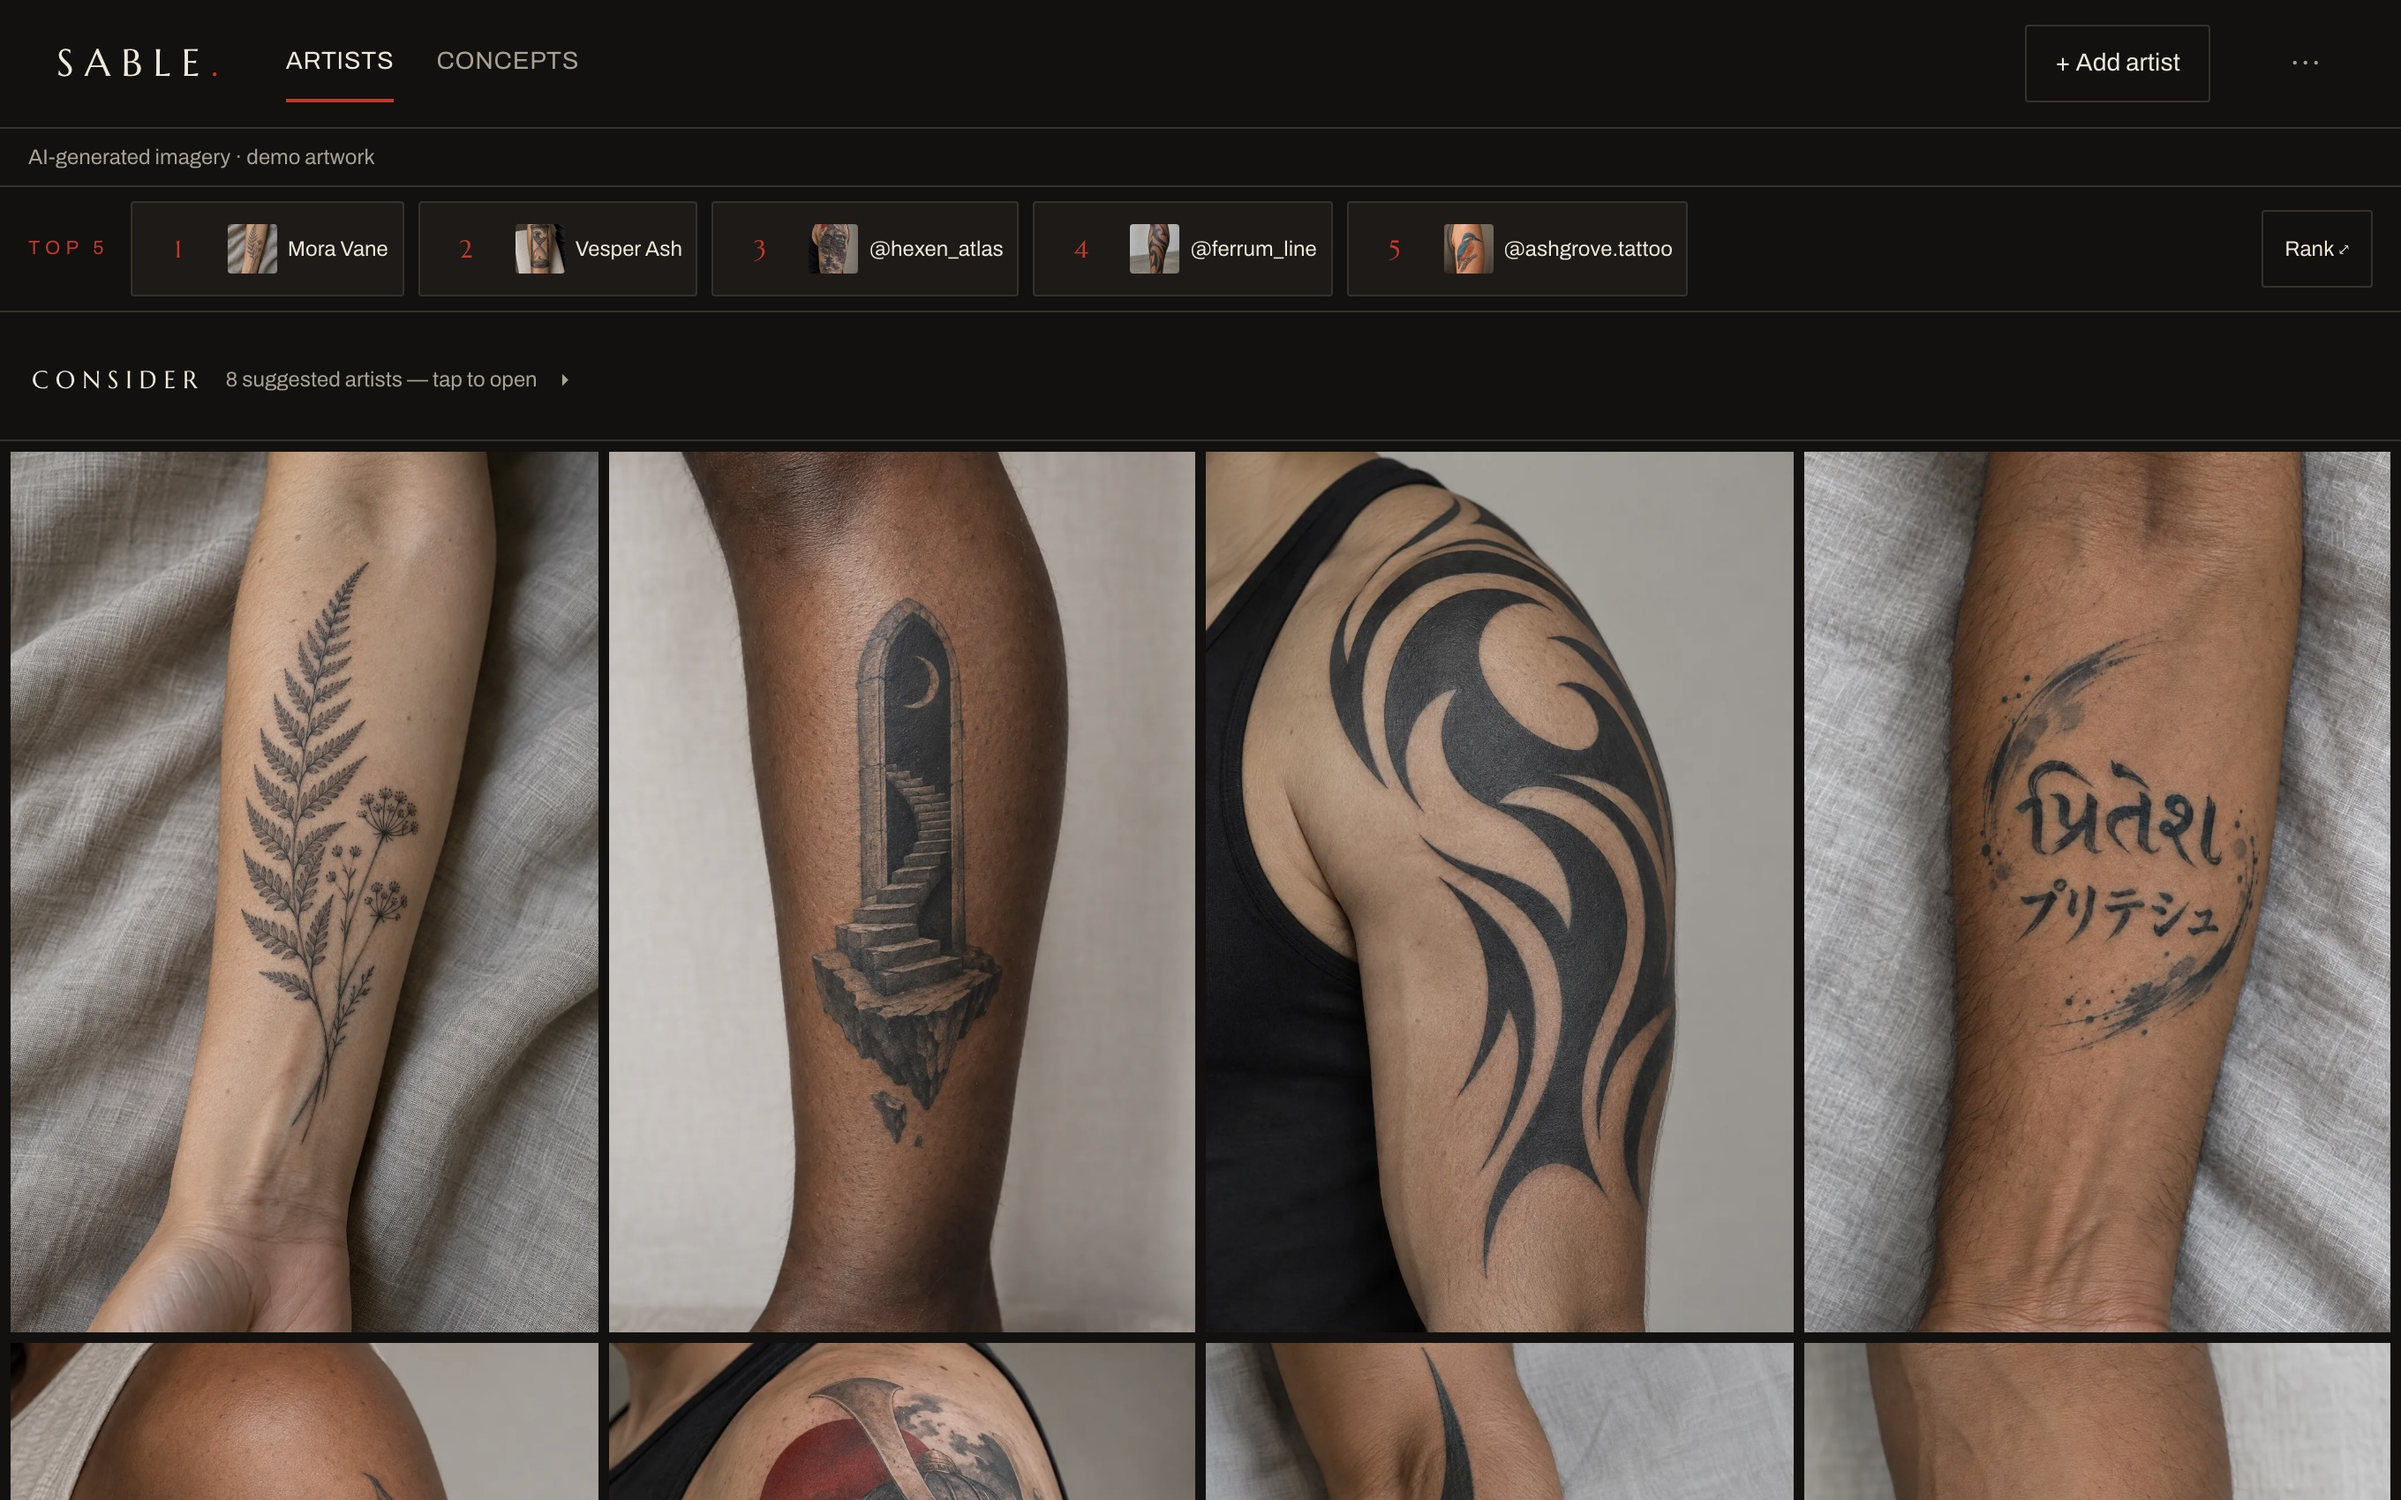
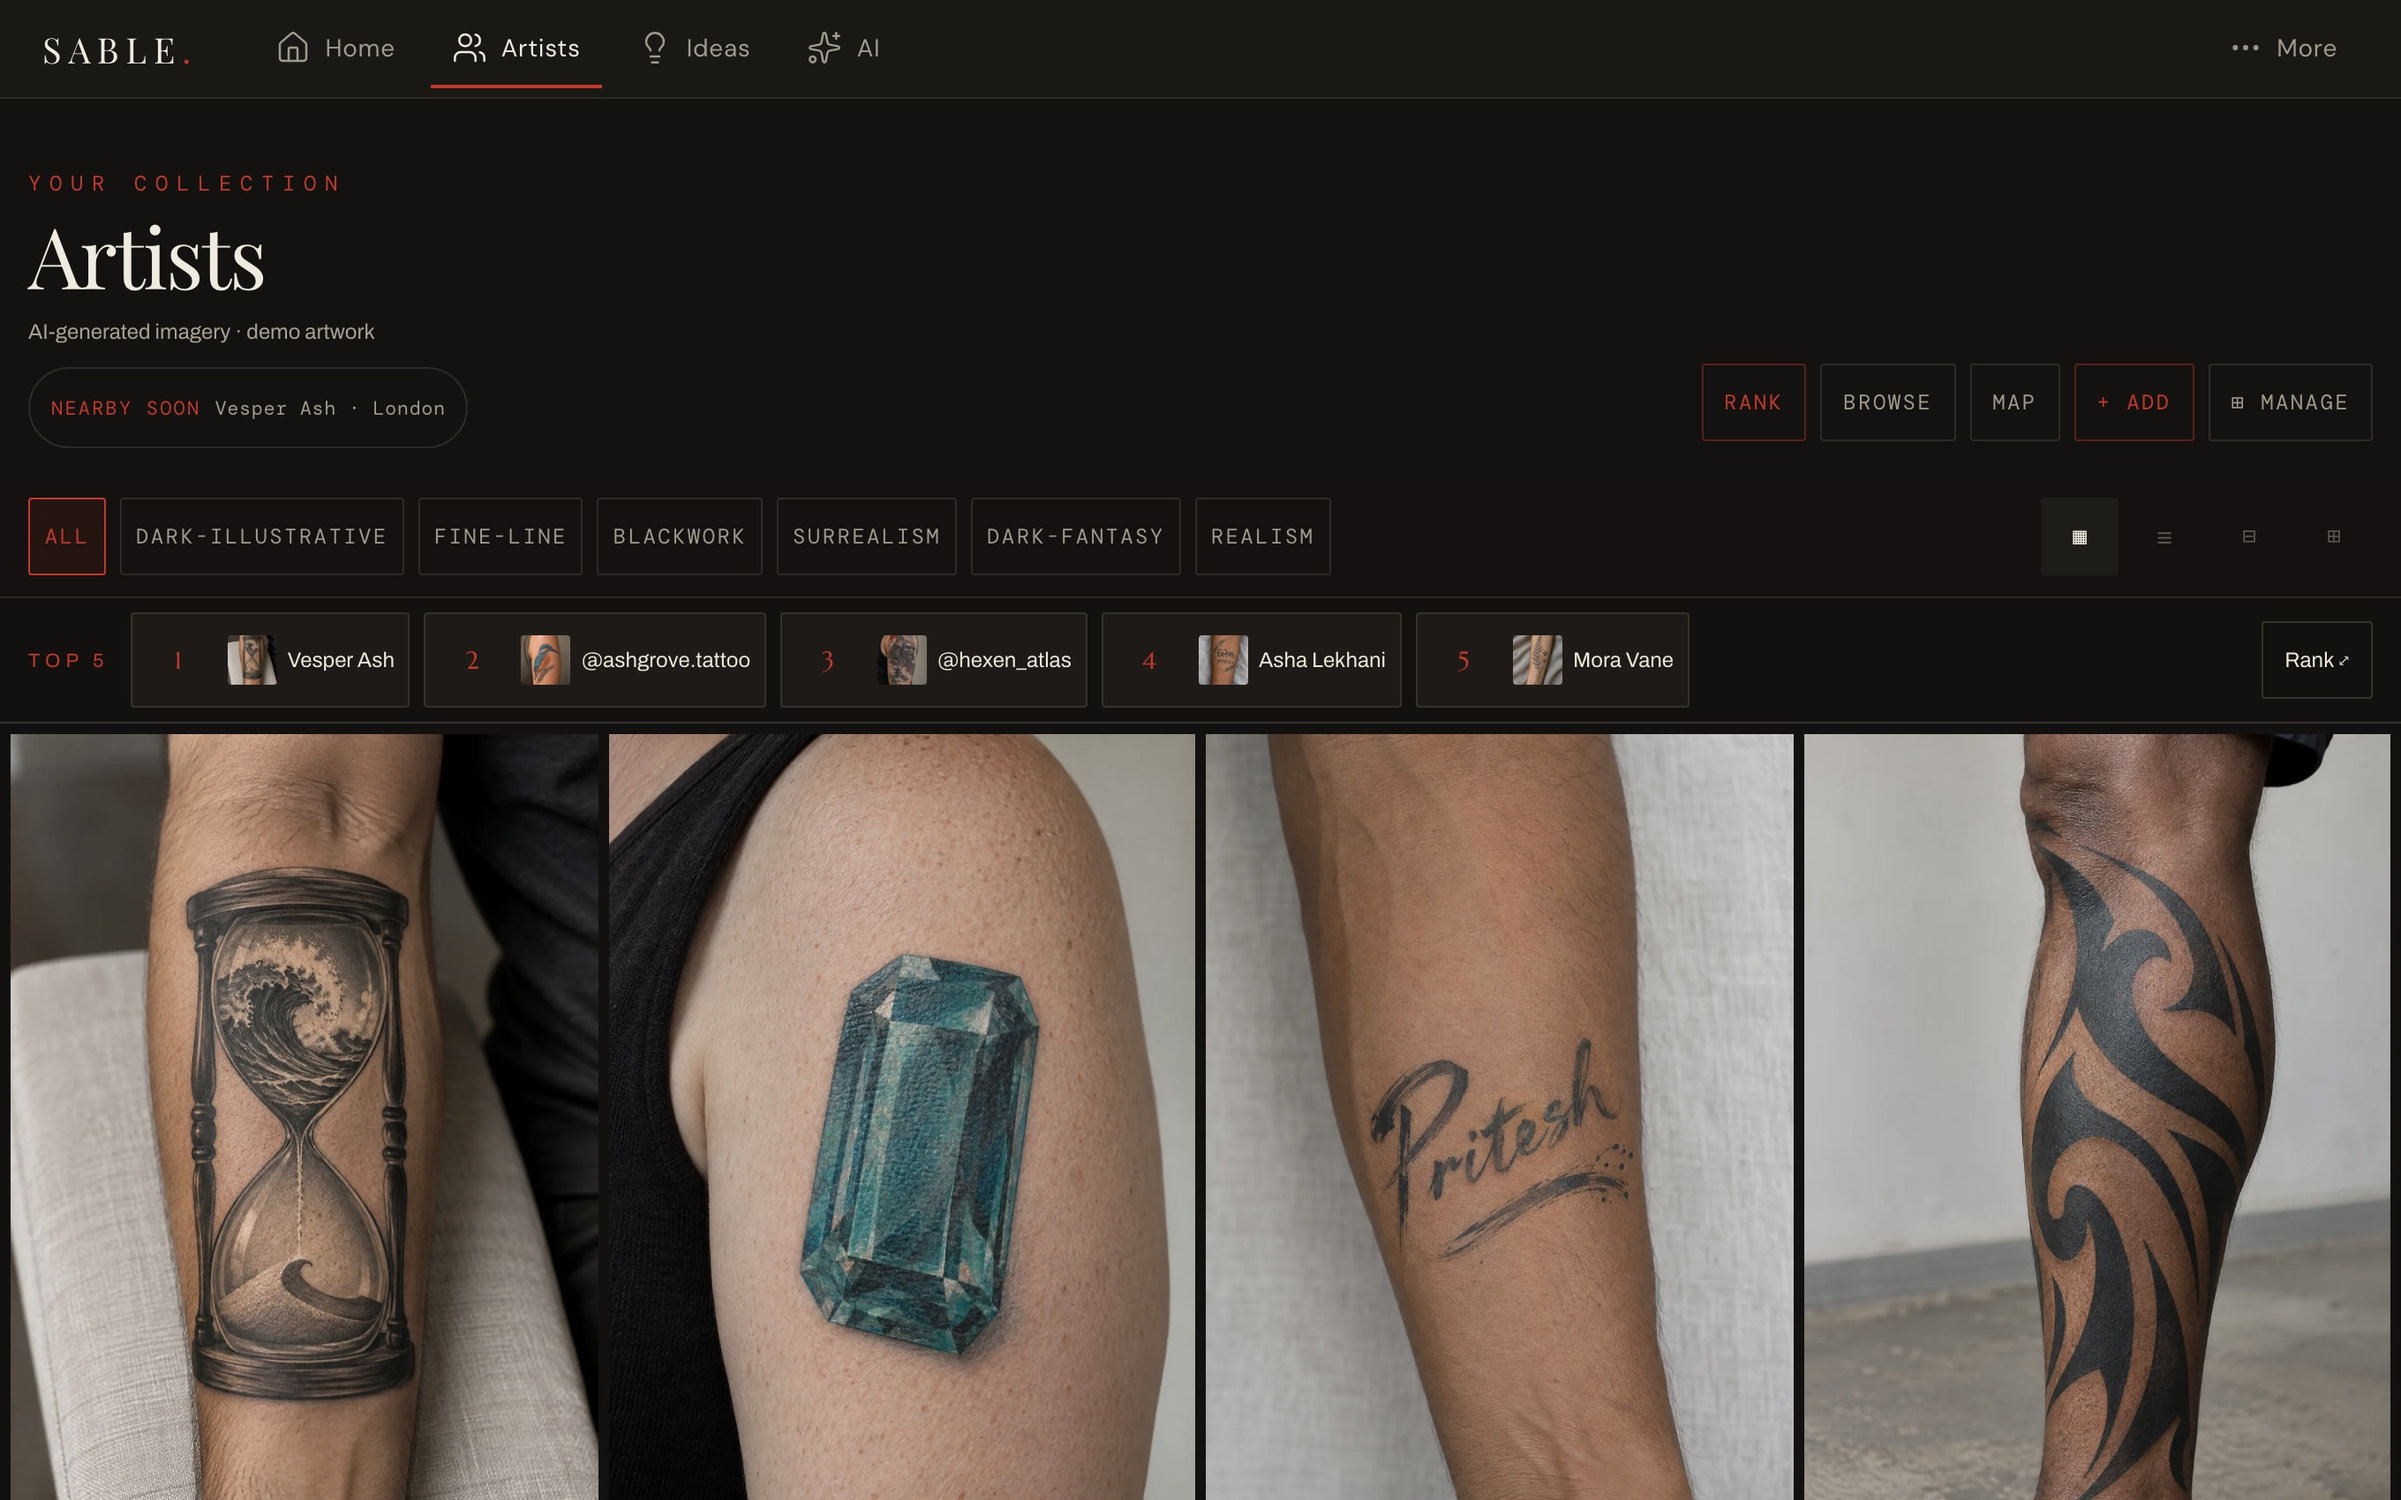
feat(artists): photos start higher on the wall; guide screenshots for Home and the wall (#220)

diff --git a/src/components/WallView.jsx b/src/components/WallView.jsx
@@ -111,6 +111,19 @@ export default function WallView({ artists = [], wallArtists = artists, ideas = 
         />
       )}
 
+
+      <div className="columns-[300px] gap-[6px] p-[6px]">
+        {items.map((item) => (
+          <WallPiece
+            key={`${item.artistId}-${item.imageIndex}`}
+            item={item}
+            onOpen={handleOpen}
+            onDropImage={addImageToArtist}
+          />
+        ))}
+      </div>
+
+      {/* Suggestions sit under the photos: on a phone they pushed the first one off the screen (#220). */}
       {!viewerOpen && items.length > 0 && (
         <ConsiderShelf
           artists={artists}
@@ -137,17 +150,6 @@ export default function WallView({ artists = [], wallArtists = artists, ideas = 
           />
         </ConsiderShelf>
       )}
-
-      <div className="columns-[300px] gap-[6px] p-[6px]">
-        {items.map((item) => (
-          <WallPiece
-            key={`${item.artistId}-${item.imageIndex}`}
-            item={item}
-            onOpen={handleOpen}
-            onDropImage={addImageToArtist}
-          />
-        ))}
-      </div>
 
       {viewerOpen && (
         <WallViewer

diff --git a/src/pages/Home.jsx b/src/pages/Home.jsx
@@ -187,7 +187,7 @@ export default function Home({ artists = [], ideas = [], concepts = [] }) {
                       to={`/brief?idea=${encodeURIComponent(idea.id)}`}
                       className="group flex items-center gap-3 p-2 min-h-16 bg-ink-card border border-ink-border hover:border-accent/50 rounded-xs transition-colors"
                     >
-                      <span className="w-12 h-12 shrink-0 overflow-hidden rounded-xs bg-ink-muted flex items-center justify-center text-cream-muted/40" aria-hidden="true">
+                      <span className="w-12 h-12 shrink-0 overflow-hidden rounded-xs bg-ink-muted flex items-center justify-center text-cream-muted" aria-hidden="true">
                         <RefImage src={idea.images?.[0]} alt="" className="w-full h-full object-cover" fallback="◇" />
                       </span>
                       <span className="min-w-0">

diff --git a/src/pages/Gallery.jsx b/src/pages/Gallery.jsx
@@ -382,7 +382,7 @@ export default function Gallery({ artists, setArtists, ideas = [], mergedConvent
       {!manageMode && (
       <>
       {/* Sticky filter bar */}
-      <div className="sticky top-[var(--nav-top)] z-20 bg-ink-black/80 backdrop-blur-md border-b border-ink-border px-4 py-3 mb-8">
+      <div className={`sticky top-[var(--nav-top)] z-20 bg-ink-black/80 backdrop-blur-md border-b border-ink-border px-4 py-3 ${viewMode === 'wall' ? '' : 'mb-8'}`}>
         {/* #77: was three wrapped pill rows + a forced-onto-its-own-line
             switcher row (171px on a phone, ~23% of the usable viewport).
             #73 had the switcher claim its own full-width row specifically to
